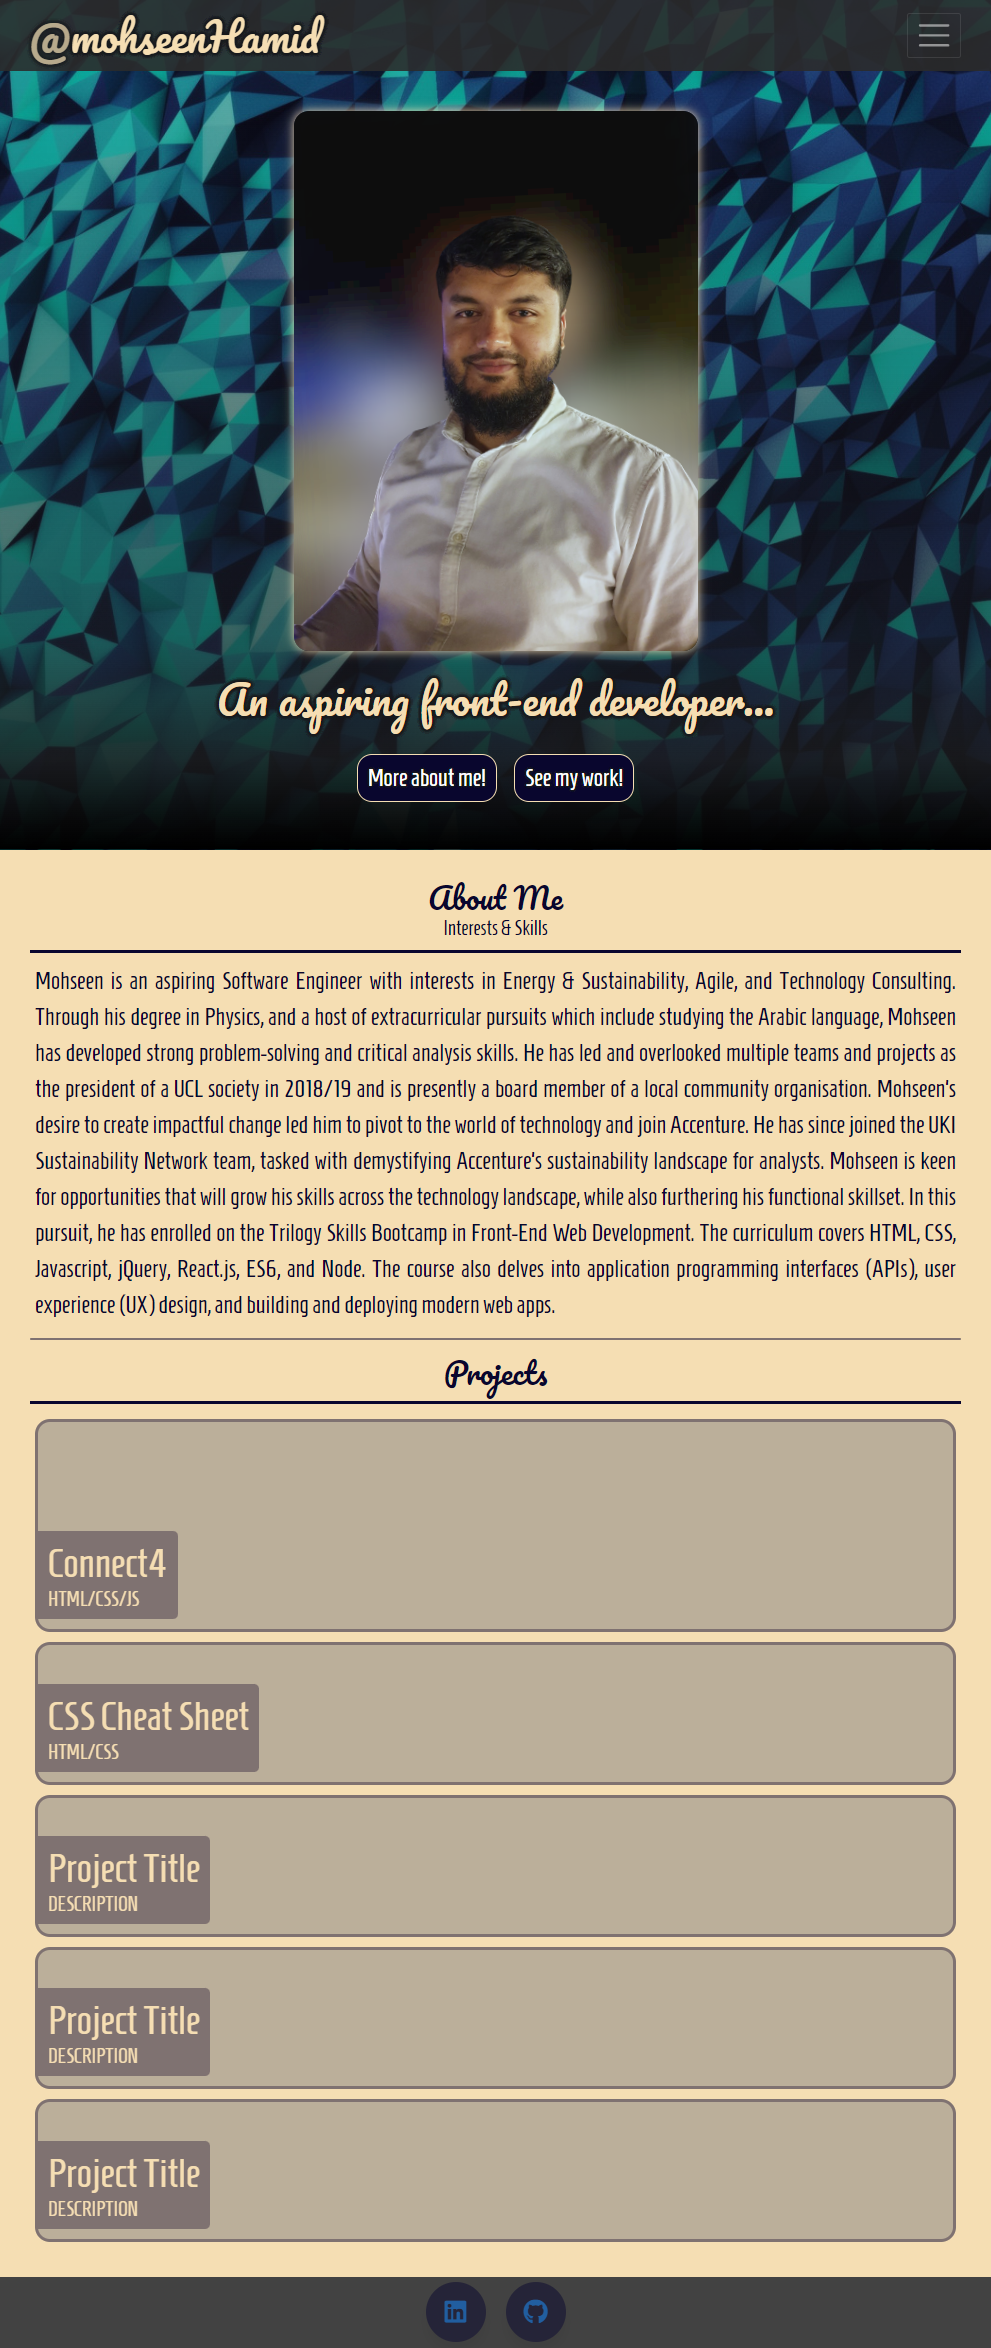
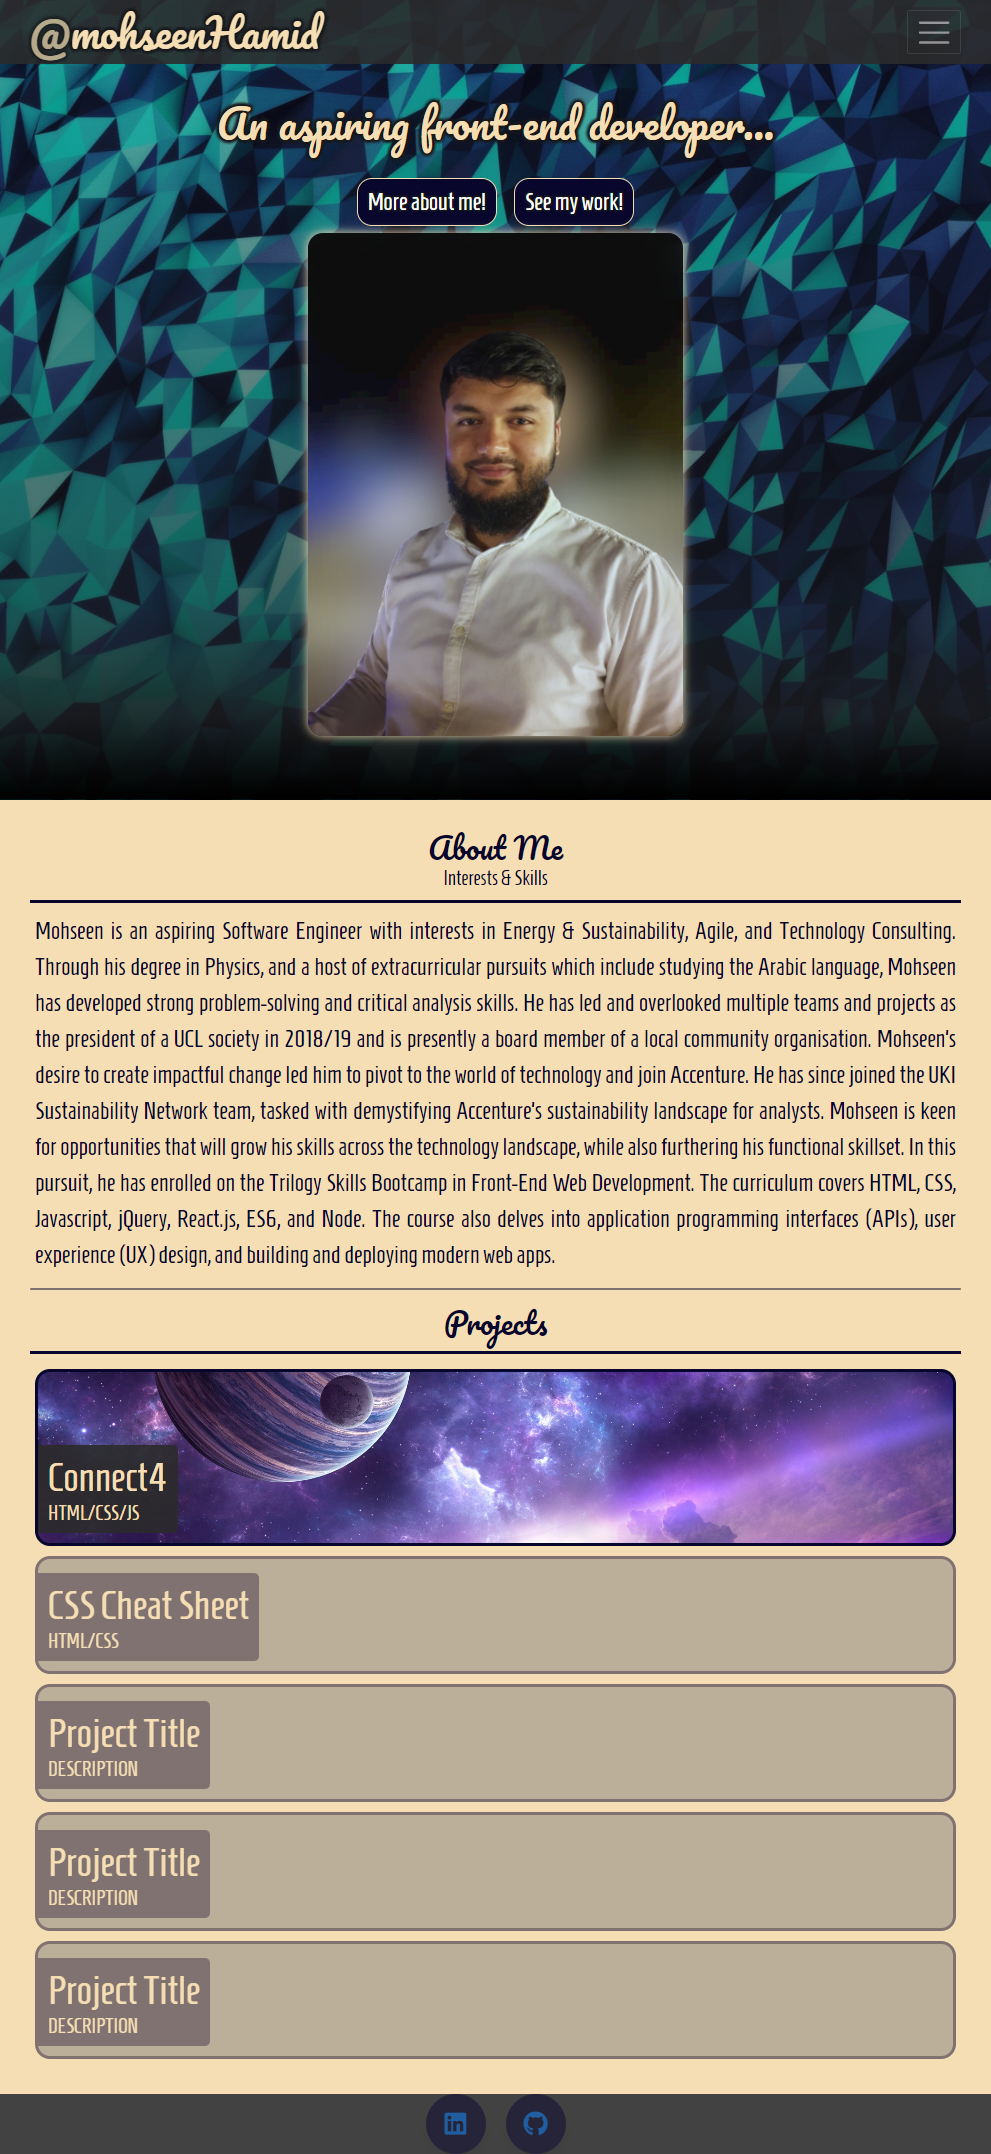
flip jumbotron right & left cols + update README screenshots

diff --git a/index.html b/index.html
@@ -90,15 +90,7 @@
 		<div class="jumbotron jumbotron-fluid">
 			<section class="container-fluid">
 				<div class="row">
-					<figure class="col-lg-5 hero-left">
-						<img
-							id="profile-pic"
-							src="./images/profile-pic.png"
-							alt="picture of me"
-						/>
-					</figure>
-
-					<section class="col-lg hero-right">
+					<section class="col-lg hero-left">
 						<h2 class="hero-text">An aspiring front-end developer...</h2>
 						<div class="hero-btns">
 							<a
@@ -115,6 +107,14 @@
 							>
 						</div>
 					</section>
+
+					<figure class="col-lg-5 hero-right">
+						<img
+							id="profile-pic"
+							src="./images/profile-pic.png"
+							alt="picture of me"
+						/>
+					</figure>
 				</div>
 			</section>
 		</div>

diff --git a/css/style.css b/css/style.css
@@ -152,20 +152,20 @@ footer {
 	max-height: 85vh;
 }
 
-.hero-left {
+.hero-right {
 	display: flex;
 	justify-content: center;
 	margin: 0;
 }
 
-.hero-right {
+.hero-left {
 	display: flex;
 	flex-direction: column;
 	flex-wrap: wrap;
 	justify-content: center;
 	align-items: center;
 	gap: 1.5em;
-	padding-right: 10%;
+	padding-left: 5%;
 }
 
 .hero-text {
@@ -435,11 +435,11 @@ adapted code structure + styled bg color
 
 /* paddings/alignments */
 @media (max-width: 992px) {
-	.hero-left {
+	.hero-right {
 		margin-bottom: 1.5em;
 	}
 
-	.hero-right {
+	.hero-left {
 		padding: 0;
 	}
 

diff --git a/README.md b/README.md
@@ -48,7 +48,7 @@ Please see below screenshots of the webpage:
 
 - 432px:
 
-![portfolio 432px webpage screenshot](./images/portfolio-screenshot-432px.png)
+![portfolio 431px webpage screenshot](./images/portfolio-screenshot-431px.png)
 
 - 931px:
 
